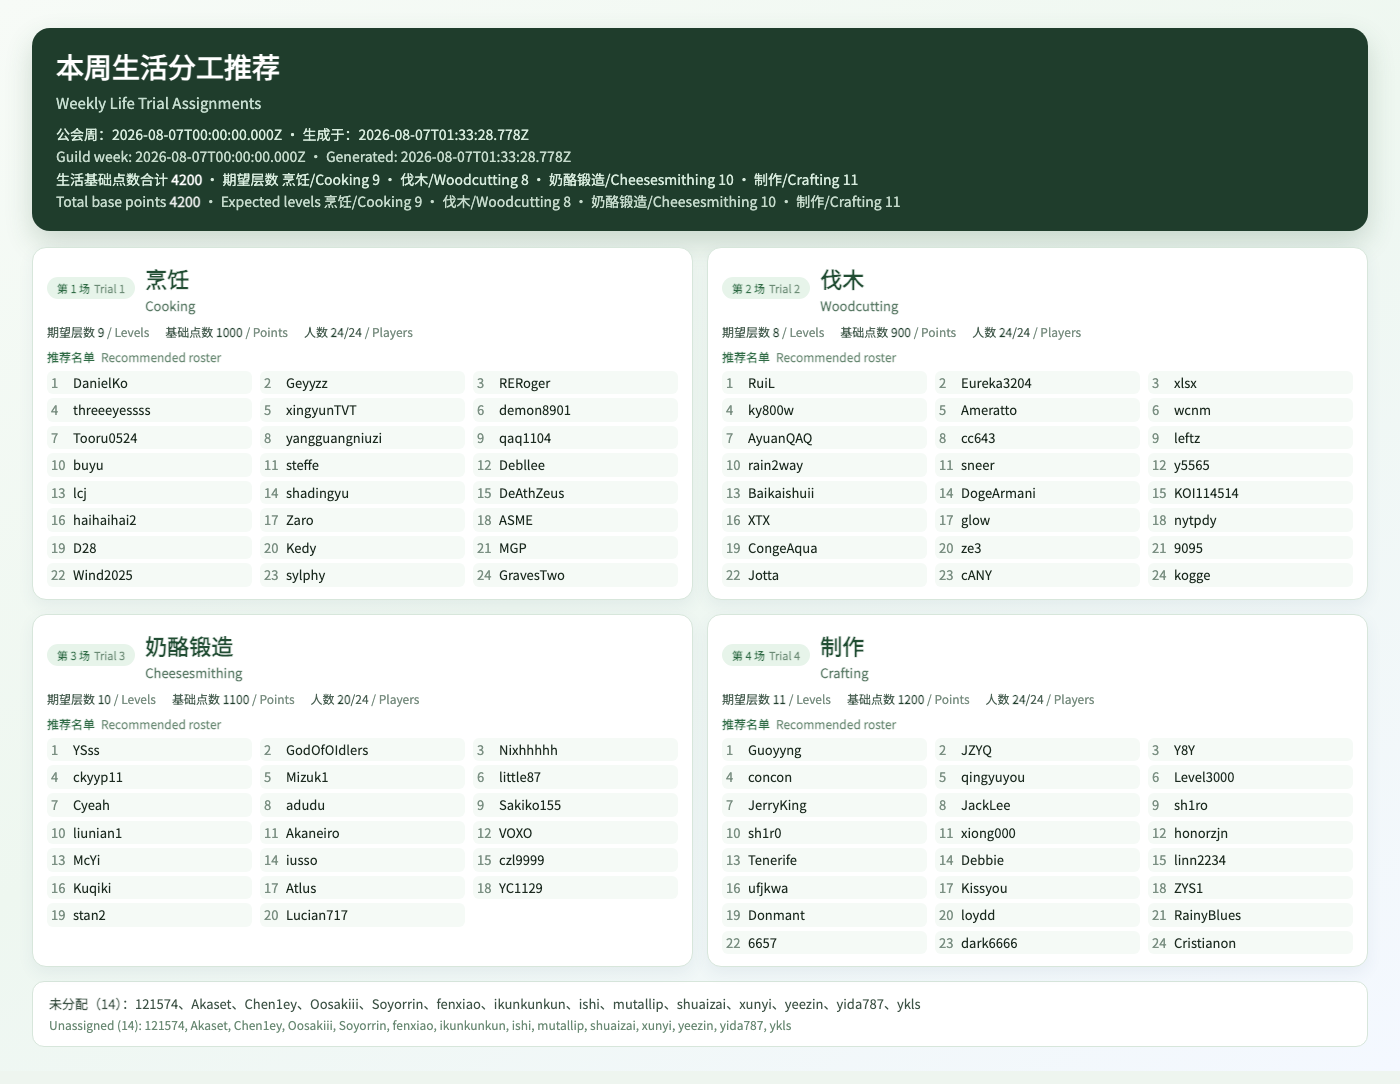
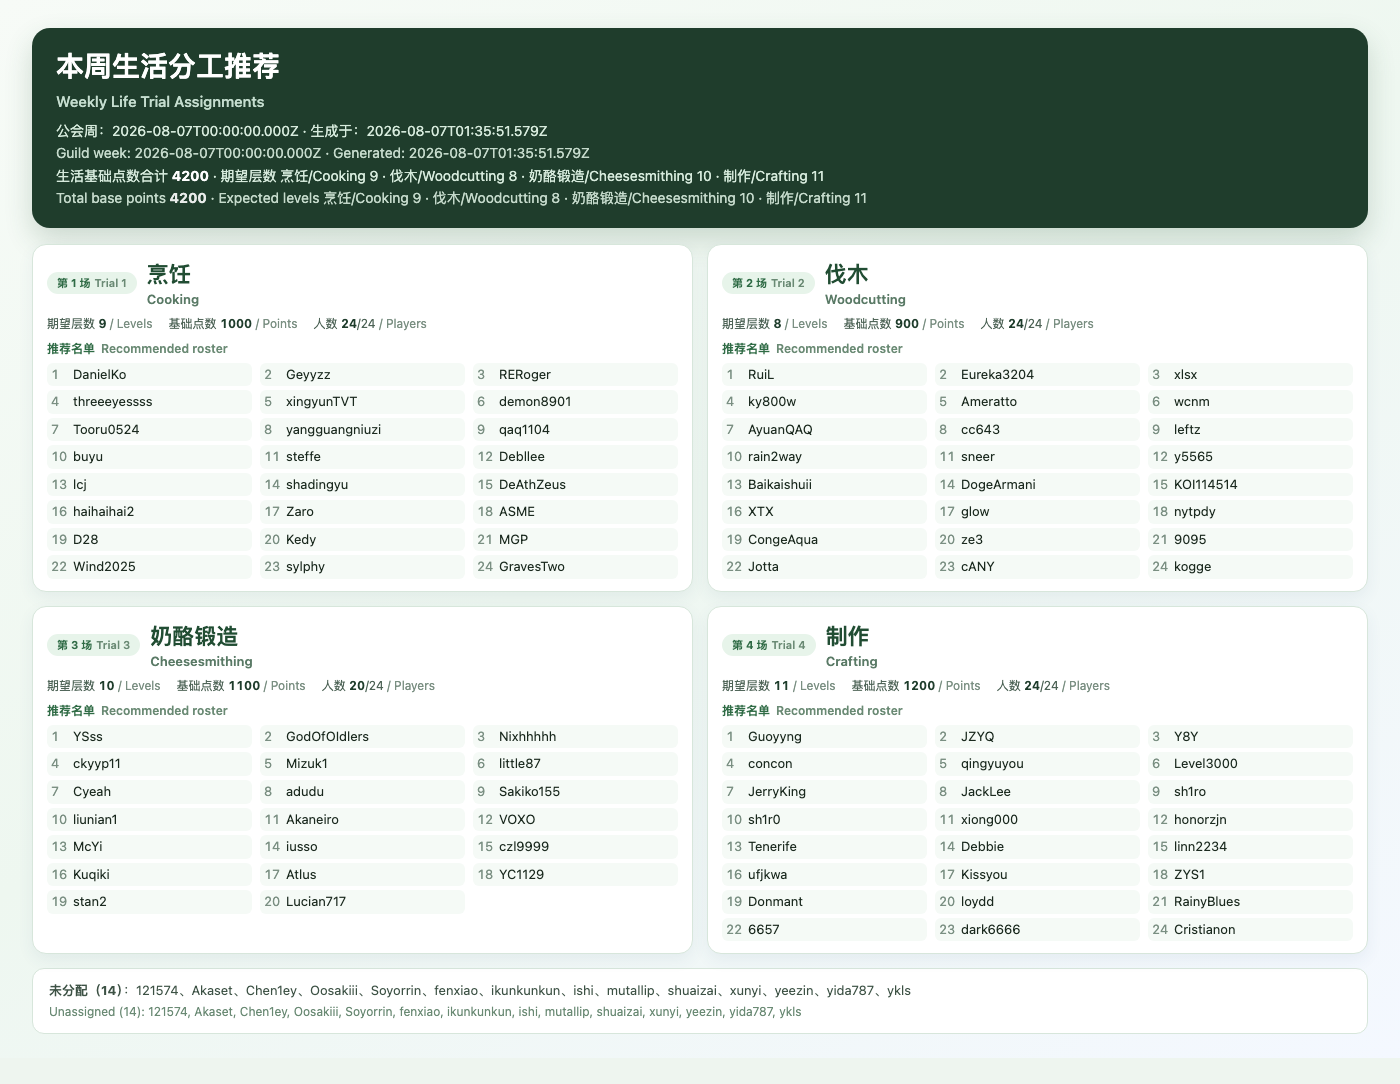
chore: refresh life assignment report (2026-08-07T00:00:00.000Z, 4200 pts)

diff --git a/reports/combat-assignment/index.html b/reports/combat-assignment/index.html
@@ -132,7 +132,7 @@
     <div class="header-text">
       <h1><span class="i18n" data-zh="本周分工" data-en="Weekly Assignments">本周分工</span></h1>
       <div class="meta">
-        <span class="i18n" data-zh="战斗方案：" data-en="Combat plan: ">战斗方案：</span>2026-08-07T01:33:28.778Z
+        <span class="i18n" data-zh="战斗方案：" data-en="Combat plan: ">战斗方案：</span>2026-08-07T01:35:51.579Z
         <span class="i18n" data-zh=" · 点选下方条目浏览生活/战斗图片" data-en=" · Pick a tab to browse life/combat images"> · 点选下方条目浏览生活/战斗图片</span>
       </div>
     </div>

diff --git a/reports/life-assignment/README.md b/reports/life-assignment/README.md
@@ -1,7 +1,7 @@
 # 本周生活分工
 
 - 公会周：`2026-08-07T00:00:00.000Z`
-- 生成时间：`2026-08-07T01:33:28.778Z`
+- 生成时间：`2026-08-07T01:35:51.579Z`
 - 基础点数合计：`4200`
 
 图片：https://raw.githubusercontent.com/xiahuaaaa/mwi-guild-trial-helper/main/reports/life-assignment/latest.png
